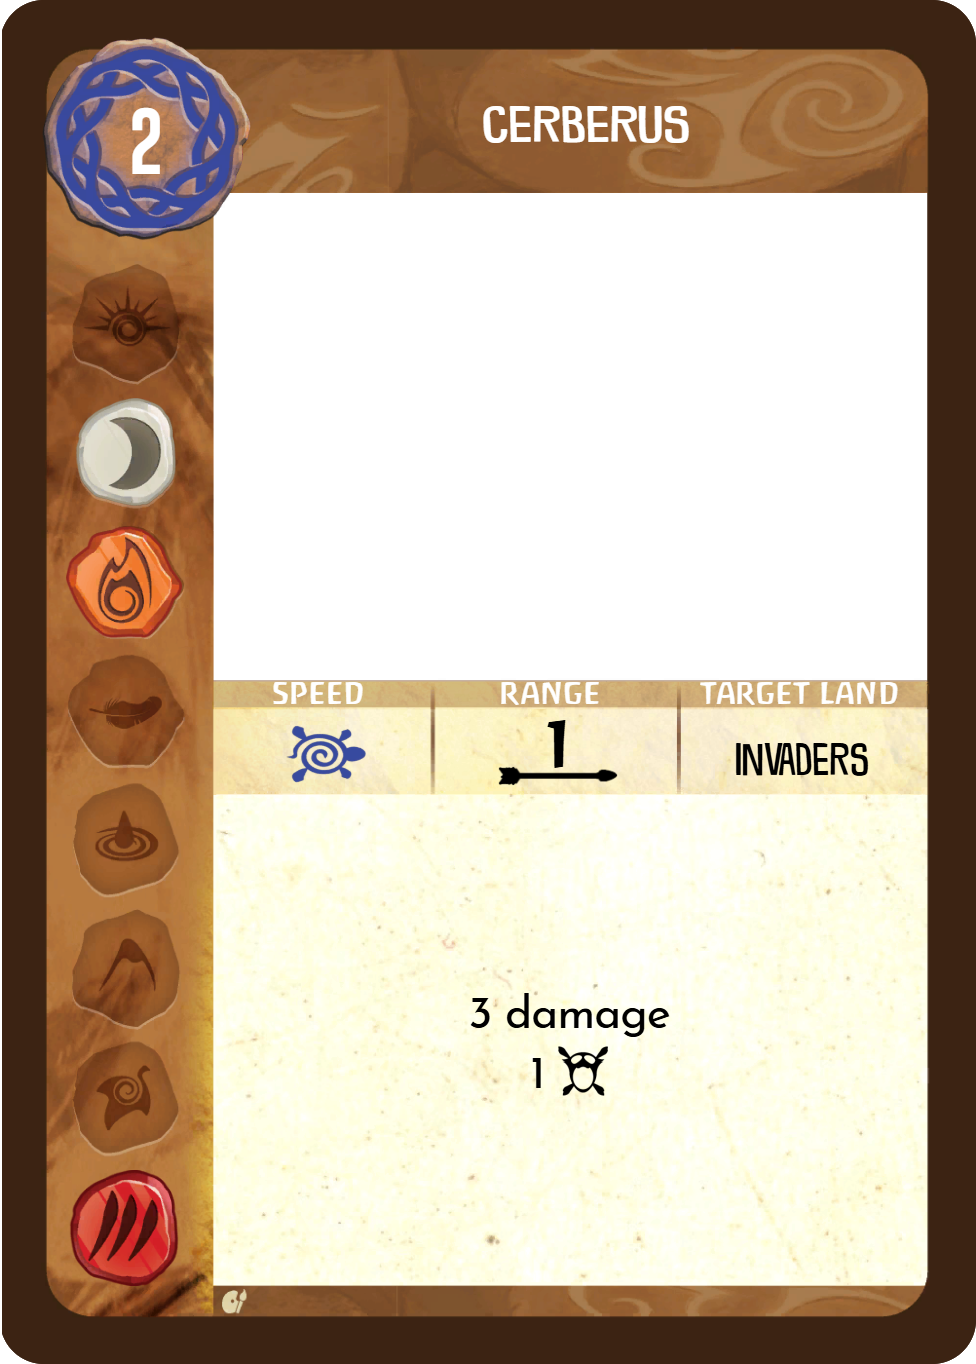
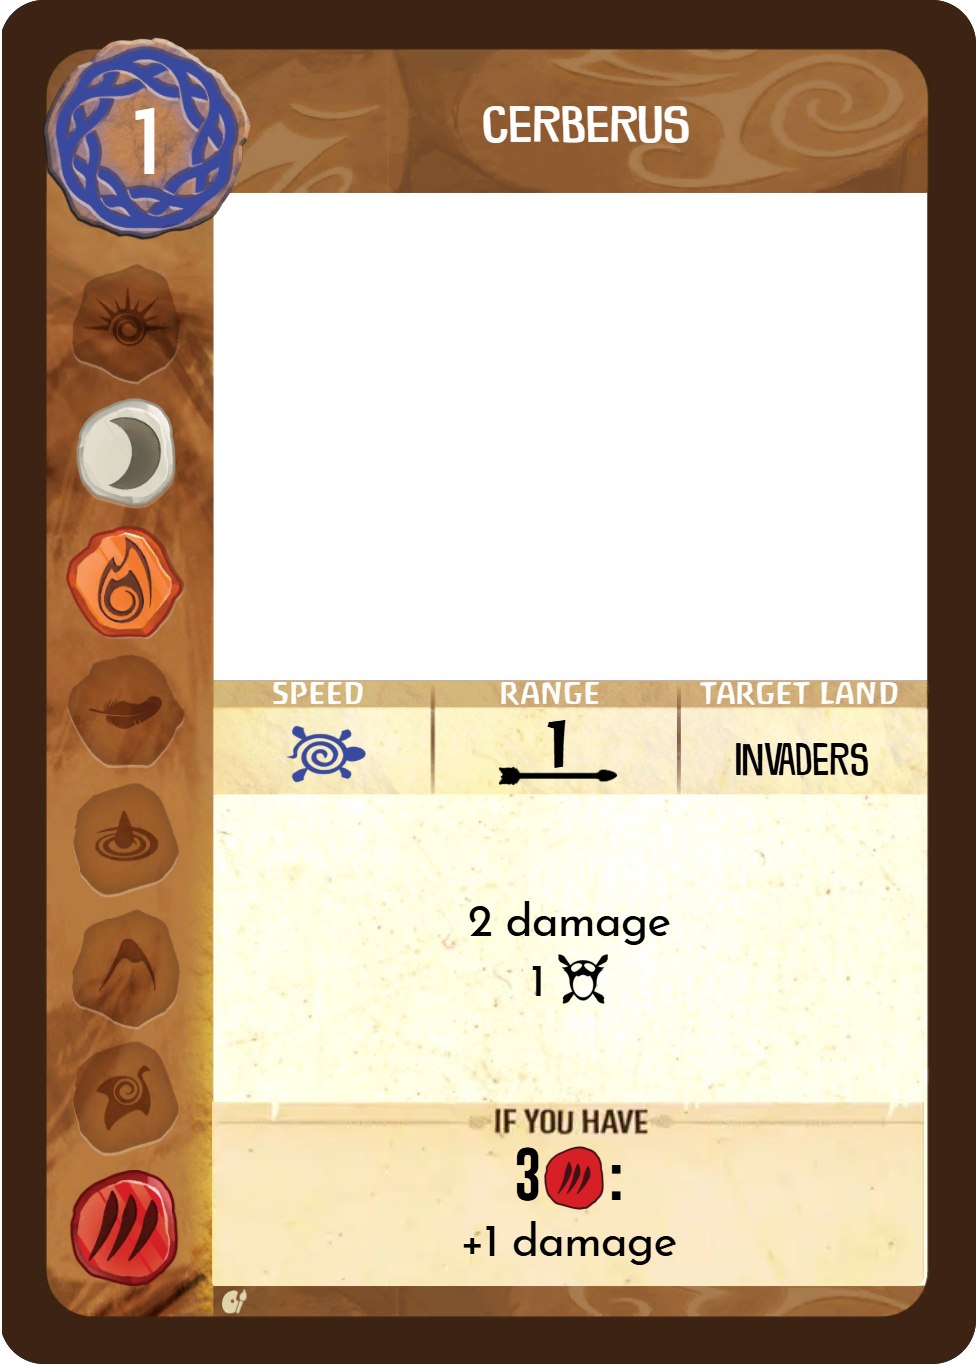
Update artwork. Revise death

Changed region(s): [[0.2152, 0.6466, 0.9529, 0.9545], [0.123, 0.0616, 0.1844, 0.1232]]

diff --git a/death/builder/Death_PowerCards.html b/death/builder/Death_PowerCards.html
@@ -1,10 +1,10 @@
[1 lines of base64/hex data omitted]
-</style><quick-card name="Warring Lands" speed="slow" cost="1" type="unique" image="" range="sacred-site,0" target="Invaders" target-title="target land" artist-name="" subtitle="undefined" stack-view="false" lang="en" elements="air,moon,fire"><rules>Push all {explorer}.
+</style><quick-card name="Warring Lands" speed="slow" cost="1" type="unique" image="" range="sacred-site,0" target="Invaders" target-title="TARGET LAND" artist-name="" subtitle="undefined" stack-view="false" lang="en" elements="air,moon,fire"><rules>Push all {explorer}.
 For each {explorer} pushed deal 1 damage to invaders in that land.
 If there are no invaders, deal 1 damage to {dahan}.
-If there are no {dahan}, remove 1 {beasts}.</rules></quick-card><quick-card name="Cerberus" speed="slow" cost="2" type="unique" image="" range="1" target="Invaders" target-title="target land" artist-name="" subtitle="undefined" stack-view="true" lang="en" elements="moon,fire,animal"><rules>3 damage
-1 {fear}</rules></quick-card><quick-card name="Thieves Guild Strikes" speed="fast" cost="1" type="unique" image="" range="0" target="{blight}+Invaders" target-title="target land" artist-name="" subtitle="undefined" stack-view="true" lang="en" elements="air,moon,water"><rules>{strife}
-Gather 1 {explorer}</rules><threshold condition="2-blight, 2-air">+1 {strife}</threshold></quick-card><quick-card name="Rolling Smoke Cloud<br />(of doom?)" speed="fast" cost="2" type="unique" image="" range="sacred-site,1" target="{blight}" target-title="target land" artist-name="" subtitle="undefined" stack-view="true" lang="en" elements="air,moon,fire,earth"><rules>Skip invader actions in this land
+If there are no {dahan}, remove 1 {beasts}.</rules></quick-card><quick-card name="Cerberus" speed="slow" cost="1" type="unique" image="" range="1" target="Invaders" target-title="TARGET LAND" artist-name="" subtitle="undefined" stack-view="true" lang="en" elements="moon,fire,animal"><rules>2 damage
+1 {fear}</rules><threshold condition="3-animal">+1 damage</threshold></quick-card><quick-card name="Thieves Guild Strikes" speed="fast" cost="1" type="unique" image="" range="0" target="{blight}+Invaders" target-title="TARGET LAND" artist-name="" subtitle="undefined" stack-view="false" lang="en" elements="air,moon,water"><rules>{strife}
+Gather 1 {explorer}</rules><threshold condition="2-blight, 2-air">+1 {strife}</threshold></quick-card><quick-card name="Rolling Smoke Cloud<br />(of doom?)" speed="fast" cost="2" type="unique" image="" range="sacred-site,1" target="{blight}" target-title="TARGET LAND" artist-name="" subtitle="undefined" stack-view="false" lang="en" elements="air,moon,fire,earth"><rules>Skip invader actions in this land
 Isolate target land
 
 1 {blight} - This does not cascade</rules></quick-card><spirit-name>Death</spirit-name>

diff --git a/death/builder/On_Death's_Door_Aspect.html b/death/builder/On_Death's_Door_Aspect.html
@@ -1,0 +1,2 @@
[1 lines of base64/hex data omitted]
+</style><aspect profile=""><aspect-name>On Death's Door</aspect-name><aspect-subtext>Replaces: <i>Death Calls From The Shadows</i></aspect-subtext><aspect-subtext>Special Rule: <i>This card is only added during blighted island</i></aspect-subtext><aspect-container><quick-innate-power name="On Death's Door" speed="fast" range="1" target="Invaders" target-title="Target Land"><level threshold="2-moon, 2-air, 2-animal">-2 damage per invader during ravage this turn</level><level threshold="2-moon, 3-air, 3-animal">Invaders have -1 health (min. 1)</level><level threshold="3-moon,4-air, 3-animal">In all your lands with {blight}, 1 damage per {blight}</level><level threshold="4-moon,5-air,4-animal">In all your lands with {blight}, 1 damager per {blight}</level></quick-innate-power></aspect-container></aspect><aspect-back spirit-name="Death" src="" class="profile"></aspect-back>

diff --git a/death/builder/Dark_Descent_of_Devouring_Death_SpiritBoard.html b/death/builder/Dark_Descent_of_Devouring_Death_SpiritBoard.html
@@ -1,9 +1,10 @@
-<style></style><board spirit-image="" spirit-image-scale="95%" spirit-border="" clickable-gui="true" lang="en"><spirit-name>Dark Descent of Devouring Death</spirit-name><artist-name>Moro Rogers</artist-name><special-rules-container><section-title>SPECIAL RULES</section-title><special-rules-subtitle>Death is Inevitable</special-rules-subtitle><special-rule>You do not gain or lose energy. You always have the maximum amount of energy available to you from your presence track.<br>
-Cards in your play area can never exceed the number of plays or energy cost shown on your presence tracks.</special-rule><special-rules-subtitle>Underworld Approaches</special-rules-subtitle><special-rule>Your {sacred-site} counts as {blight}. You may not move your {sacred-site} when pushing/gathering {blight}.
+<style></style><board spirit-image="" spirit-image-scale="95%" spirit-border="" clickable-gui="true" lang="en"><spirit-name>Dark Descent of Devouring Death</spirit-name><artist-name>Moro Rogers</artist-name><special-rules-container><section-title>SPECIAL RULES</section-title><special-rules-subtitle>Death is Inevitable</special-rules-subtitle><special-rule>You always have 0 energy. You do not gain or lose energy. You may play cards totaling up to your maximum energy and card plays. Cards in your play area can never exceed the number of plays or energy cost shown on your presence tracks.
+
+When an event or power asks to pay energy, you may discard a card from your hand for 1 energy or forget a card for 2 energy for the purpose of paying that energy cost.</special-rule><special-rules-subtitle>Underworld Approaches</special-rules-subtitle><special-rule>Your {sacred-site} counts as {blight}. You may NOT move your {sacred-site} when pushing/gathering {blight}.
 
 If a {blight} would be added to a land with your {sacred-site}, you may add the {blight} to an adjacent land instead.
 
 Your {presence} is not destroyed due to {blight}.
 
-When in blighted island, all abilities {gain-range-1} from lands with {blight}.</special-rule></special-rules-container><right><growth title="Growth"><sub-growth title="Always..." bordered=""><growth-group values="or(add-presence(1),add-presence(2, blight)) "></growth-group></sub-growth><sub-growth title="Plus Pick Two Different Options"><growth-group values="reclaim(all)"></growth-group><growth-group values="gain-power-card()"></growth-group><growth-group values="add-token(0, strife);gain-element(any)"></growth-group><growth-group values="fear(2)"></growth-group></sub-growth></growth><presence-tracks><energy-track banner="" banner-v-scale="70%" values="1,2,moon,3,4,gain-range(1),5"></energy-track><card-play-track banner="" banner-v-scale="70%" values="1,push(blight),2,air,3,token(strife)"></card-play-track></presence-tracks><innate-powers><quick-innate-power name="Reaper's Scythe" speed="slow" range="sacred-site,0" target="{blight}" target-title=""><level threshold="2-moon">Destroy 1 hp worth of invaders per {moon}. Do the same to {dahan}</level><level threshold="2-air">Add  {strife} to an adjacent land. If that land has {blight}, +1 {strife}</level><level threshold="2-blight">Destroy 1 hp worth of invaders per {blight}. Do the same to {dahan}</level><level threshold="5-moon, 4-air, 3-blight">Instead - Destroy all invaders, remove all {wilds}/{beasts}/{dahan}.
-Push all {blight} to adjacent lands (max 1 per land). Any remaining {blight} stays</level></quick-innate-power><quick-innate-power name="Death Calls from the Shadows" speed="slow" range="1" target="Invaders" target-title=""><level threshold="2-air,1-animal">1 {fear}</level><level threshold="3-air, 2-animal">1 {fear}</level><level threshold="2-moon, 4-air, 2-animal">1 {fear}, 1 {strife}</level></quick-innate-power></innate-powers></right></board>
+When in blighted island, all abilities {gain-range-1} from lands with {blight}.</special-rule></special-rules-container><right><growth title="Growth"><sub-growth title="Always..." bordered=""><growth-group values="or(add-presence(1),add-presence(2, blight)) "></growth-group></sub-growth><sub-growth title="Plus Pick Two Different Options"><growth-group values="reclaim(all)"></growth-group><growth-group values="gain-power-card()"></growth-group><growth-group values="add-token(0, strife);gain-element(any)"></growth-group><growth-group values="fear(2)"></growth-group></sub-growth></growth><presence-tracks><energy-track banner="" banner-v-scale="70%" values="1,2,moon+3,4,5,gain-range(1),6"></energy-track><card-play-track banner="" banner-v-scale="70%" values="1,push(blight),2,air,3,token(strife)"></card-play-track></presence-tracks><innate-powers><quick-innate-power name="Reaper's Scythe" speed="slow" range="sacred-site,0" target="{blight}" target-title=""><level threshold="2-moon">Destroy 1 hp worth of invaders per {moon}. Do the same to {dahan}</level><level threshold="2-air">Add  {strife} to an adjacent land. If that land has {blight}, +1 {strife}</level><level threshold="2-blight">Destroy 1 hp worth of invaders per {blight}. Do the same to {dahan}</level><level threshold="5-moon, 4-air, 3-blight">Instead - Destroy all invaders, remove all {wilds}/{beasts}/{dahan}.
+Push all {blight} to adjacent lands (max 1 per land). Any remaining {blight} stays</level></quick-innate-power><quick-innate-power name="Death Calls from the Shadows" speed="fast" range="ANY" target="ANY {spirit} " target-title="" note="When in blighted island, replace this power with the <br />&quot;On Death's Door&quot; aspect card"><level threshold="2-air,1-animal">1 {strife} in 1 land of target spirit</level><level threshold="3-air, 2-animal">3 {fear}, Add 1 {blight} without cascading/losing presence</level><level threshold="2-moon, 4-air, 2-animal">Instead - Immediately go to blighted island. Any remaining {blight} on the healthy island card is transferred to the blighted island card</level></quick-innate-power></innate-powers></right></board>
